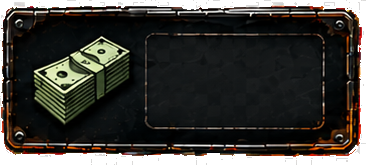
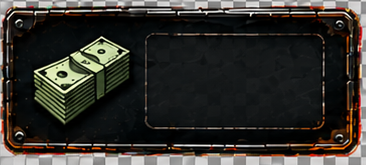
Wire real player-info panel art into the top HUD (nick, level, XP bar)
Swaps in the new HUD art the user supplied (puste_bez_tresci.rar /
Pasek_u_gory.rar): player-info panel background, avatar frame, an XP
bar track, and a refreshed cash-chip icon. Overlays real game state
(nickname, level, xp/xpMax) on top instead of baked-in placeholder
numbers, reusing CSS classes (.hud-player-name, .hud-player-level-value,
.hud-xp-bar) that were already sitting in game-shell-overrides.css from
an earlier header iteration but unused in JSX - their percentage
positions line up exactly with the new 565x184 player-info asset.

Moved the avatar frame out from inside the player-info panel to a
sibling in the header flex row, since the new panel art doesn't
reserve space for it internally the way the old one did. Dropped the
"GANG <name>" line - the new panel has no slot for it.

Left the overall header background texture, logo, mail/settings icons,
and logout button untouched: mail/settings/points/energy assets from
the supplied archives turned out to be byte-identical or pixel-identical
to what's already integrated, and the new header-background file
(tlo_pasek_gora.png) has a bad export (baked-in checkerboard instead of
real alpha transparency), so it's not usable as-is.

Claude-Session: https://claude.ai/code/session_013aDw4Yccy3HH9BQv13TP56

Changed region(s): [[0.0, 0.0, 1.0, 1.0], [0.0, 0.697, 0.0301, 0.7576]]

diff --git a/artifacts/prison-life/src/App.tsx b/artifacts/prison-life/src/App.tsx
@@ -146,6 +146,8 @@ import trainingMockup from '@assets/Obraz_Codex_6_wrz_2026,_20_10_24_17887182377
 import hudIndustrialBackground from '@assets/topbar/hud-industrial-background.png';
 import hudSidebarBackground from '@assets/topbar/hud-sidebar-bg.png';
 import hudPlayerBoxFrame from '@assets/topbar/hud-player-box-bg.png';
+import hudAvatarFrameBg from '@assets/topbar/hud-avatar-frame-bg.png';
+import hudXpBarBg from '@assets/topbar/hud-xp-bar-bg.png';
 import hudMoneyCardFrame from '@assets/topbar/hud-money-card-bg.png';
 import hudPointsCardFrame from '@assets/topbar/hud-points-card-bg.png';
 import hudEnergyCardFrame from '@assets/topbar/hud-energy-card-bg.png';
@@ -897,7 +899,6 @@ function GameShell({ creator, onNavigate }: { creator: CreatorState; onNavigate:
     };
     window.localStorage.setItem(PROGRESS_STORAGE_KEY, JSON.stringify(data));
   }, [wallet.balance, pointsWallet.balance, reputationWallet.balance, level, xp, xpMax, energyWallet.energy, energyWallet.updatedAt, cellUpgradeLevels, characterStats, equipped, ownedItems, shopOffer, marketOffer, foodBuffs]);
-  const type = prisonerTypes.find((item) => item.id === creator.prisonerType)!;
   const gameData = {
     nickname: creator.nickname.trim() || 'KOSA',
     level,
@@ -960,12 +961,13 @@ function GameShell({ creator, onNavigate }: { creator: CreatorState; onNavigate:
         </button>
       </div>
       <button className="game-mobile-menu-toggle" onClick={() => setMobileMenuOpen((open) => !open)} aria-label="Otwórz menu gry"><Menu size={21} /></button>
+      <div className="hud-avatar-frame" style={{ ['--hud-avatar-frame-bg' as string]: `url(${hudAvatarFrameBg})` } as CSSProperties}><img src={playerAvatarAsset} alt={gameData.nickname} /></div>
       <div className="hud-player-info" style={{ backgroundImage: `url(${hudPlayerBoxFrame})` }} data-testid="hud-player-info">
-        <div className="hud-avatar-frame"><img src={playerAvatarAsset} alt={gameData.nickname} /></div>
-        <div className="hud-player-copy">
-          <strong>{gameData.nickname}</strong>
-          <span>POZIOM <b>{gameData.level}</b></span>
-          <span>GANG <b>{type.name}</b></span>
+        <span className="hud-player-name">{gameData.nickname}</span>
+        <span className="hud-player-level-value">{gameData.level}</span>
+        <div className="hud-xp-bar" style={{ backgroundImage: `url(${hudXpBarBg})` }}>
+          <i style={{ width: `${Math.max(0, Math.min(100, (gameData.xp / gameData.xpMax) * 100))}%` }} />
+          <small>{gameData.xp} / {gameData.xpMax} XP</small>
         </div>
       </div>
       <div className="hud-chip hud-chip-money" style={{ backgroundImage: `url(${hudMoneyCardFrame})` }} data-testid="hud-money">
